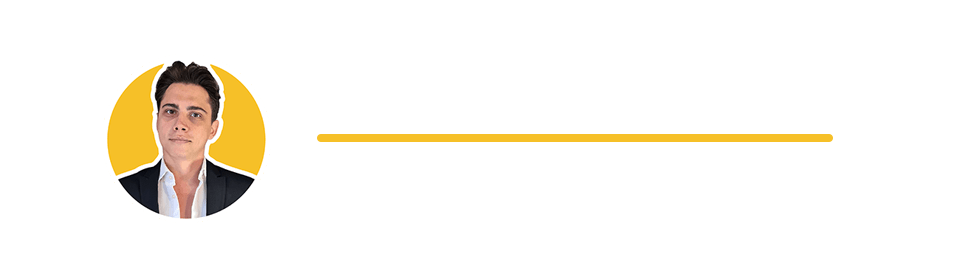
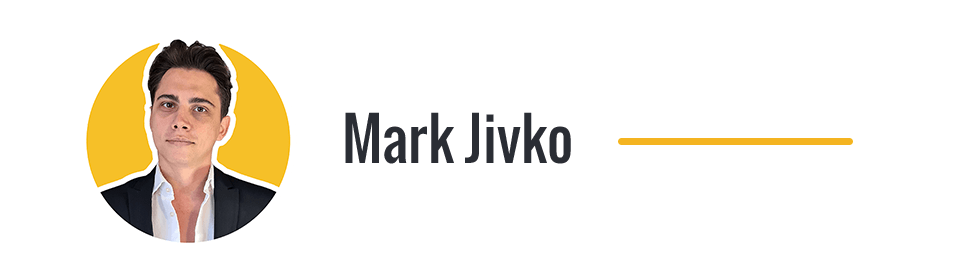
[chore] Style change

Changed region(s): [[0.0625, 0.1455, 0.9062, 0.9018]]

diff --git a/post/functions.js b/post/functions.js
@@ -1,5 +1,5 @@
 const inputPadding = 20;
-const inputLeft = 140;
+const inputLeft = 110;
 const inputTop = 350;
 const startStretch = 180;
 
@@ -159,13 +159,16 @@ document.addEventListener("DOMContentLoaded", function () {
                 ctx.canvas.height = newCanvasHeight;
                 ctx.fillStyle = "#fff";
                 ctx.fillRect(0, 0, canvas.width, newCanvasHeight);
-                ctx.drawImage(background, -610, -610);
+                ctx.drawImage(background, -560, -560);
                 ctx.drawImage(banner, 0, 50);
                 ctx.drawImage(footer, 0, newCanvasHeight - 200);
 
                 ctx.fillStyle = "#000";
+                ctx.strokeStyle = "#fff";
+                ctx.lineWidth = 6;
                 ctx.font = `${fontSize}px Oswald`;
                 lines.map((line, index) => {
+                    ctx.strokeText(line, inputLeft, marginTop + index * lineHeight);
                     ctx.fillText(line, inputLeft, marginTop + index * lineHeight);
                 });
             });

diff --git a/post/style.css b/post/style.css
@@ -134,9 +134,9 @@ a {
     border-radius: 10px;
 }
 .holder [data-role="input"] textarea {
-    width: 700px;
+    width: 780px;
     height: 140px;
-    left: 140px;
+    left: 110px;
     padding: 20px;
     top: 350px;
 
